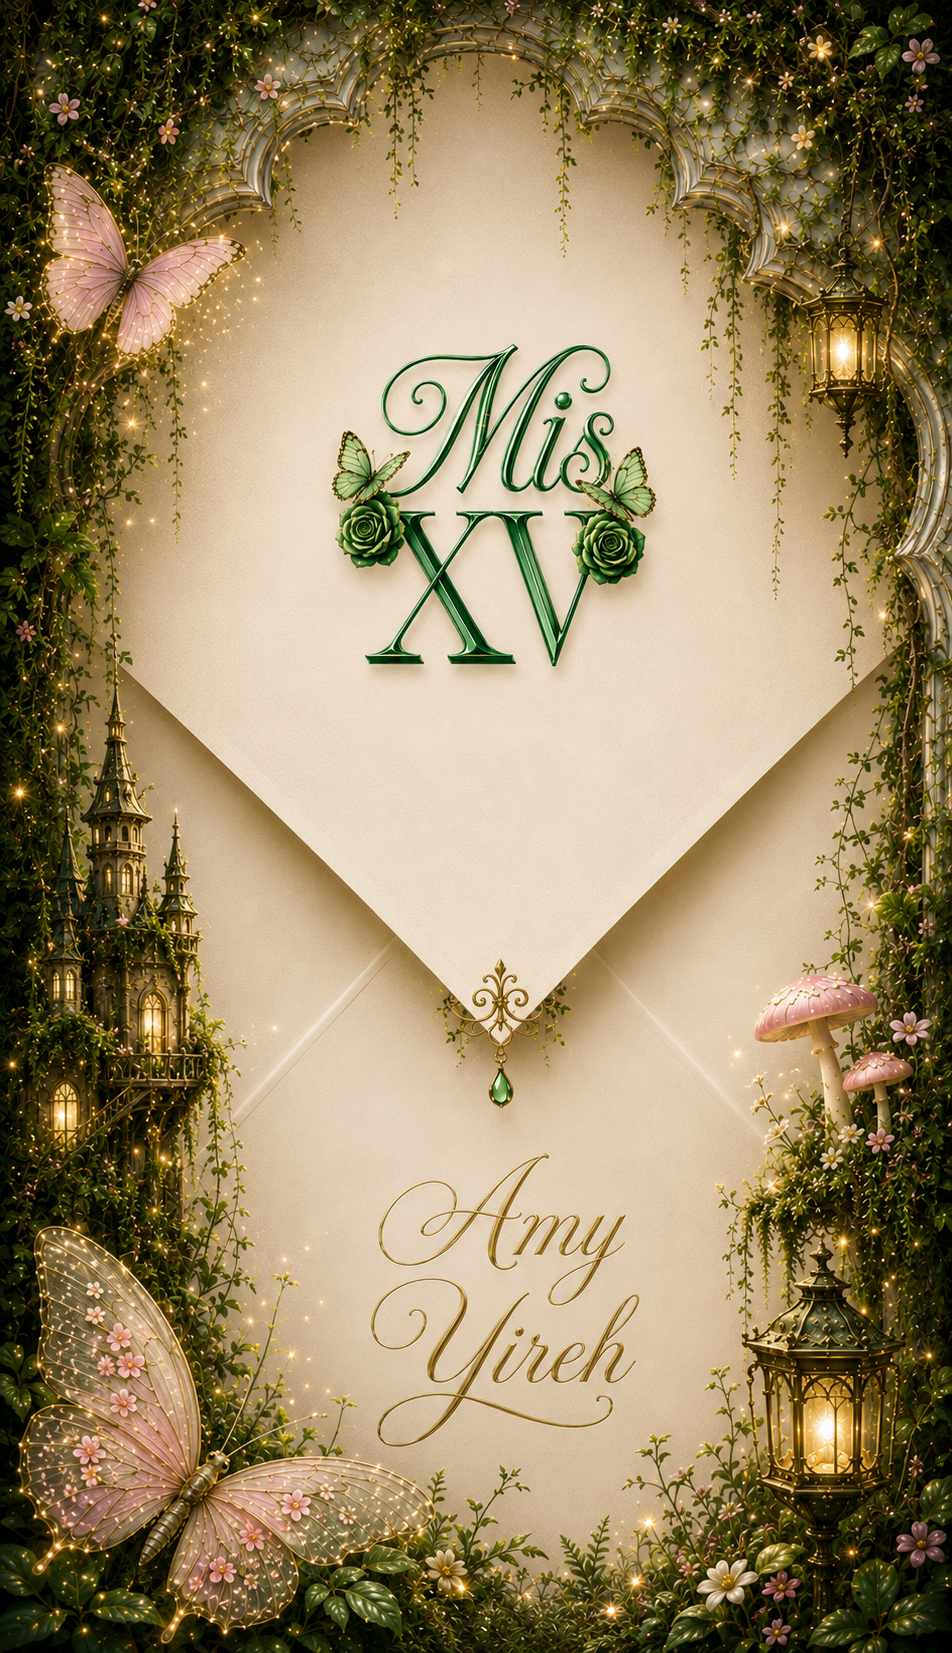
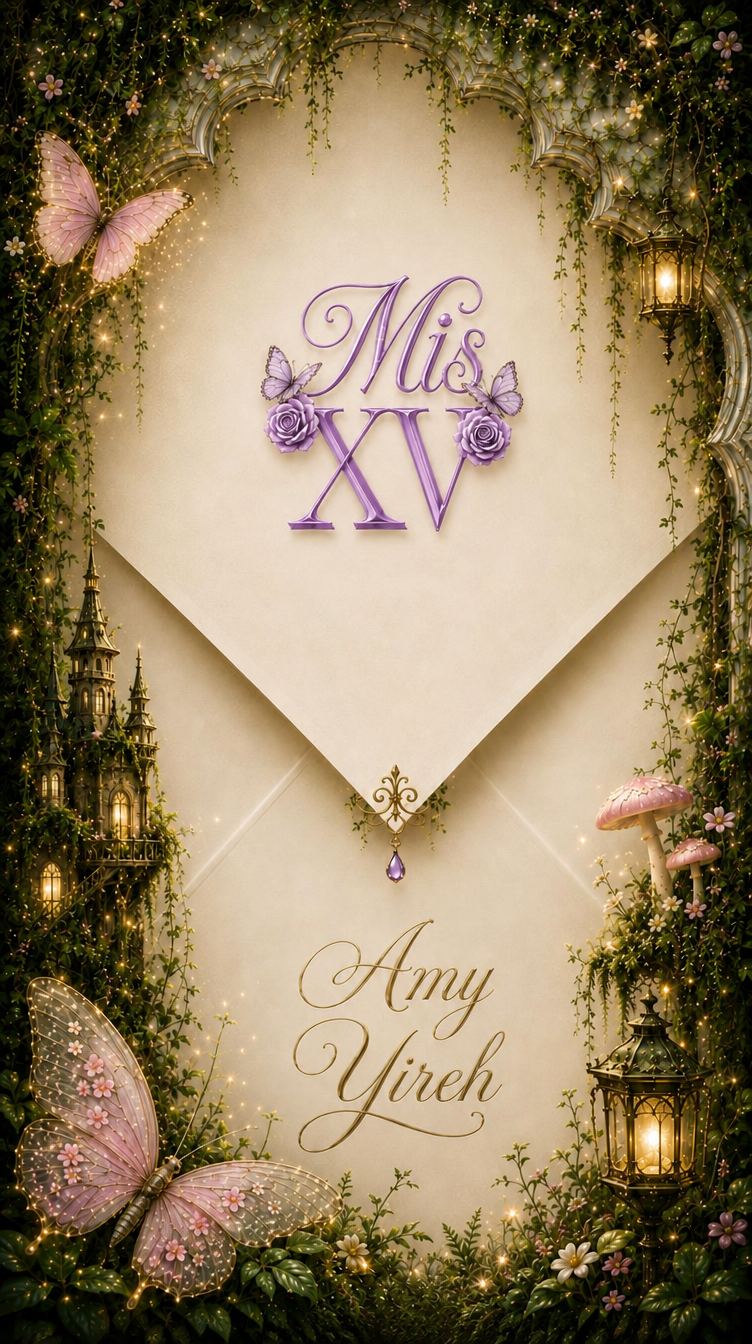
“miercoles_8”

diff --git a/invi_julio/fullarte_bosqueencantado_AmyYireh/invitacion.html b/invi_julio/fullarte_bosqueencantado_AmyYireh/invitacion.html
@@ -67,7 +67,7 @@
         font-family: 'Nova Quinta', cursive; /* Tipografía personalizada */
         font-size: 55px; /* Tamaño del texto */
         font-weight:500;
-        color: #4a6d3f; /* Color del texto */
+        color: #865b92; /* Color del texto */
         text-align: center; /* Centrado */
         margin-top: 740px; /* Separación superior exacta */
        
@@ -87,7 +87,7 @@
         .parrafo {
          font-family: 'Gabriola', serif;
         font-size: 26px; /* Tamaño del texto */
-        color: #513814; /* Color del texto */
+        color: #865b92; /* Color del texto */
         text-align: center; /* Centrado */
         margin-top: 1px; /* Espaciado respecto al nombre */
         line-height: 1.5; /* Altura de línea */
@@ -98,14 +98,14 @@
      .date-container {
             font-family: 'Gabriola', serif;
             text-align: center;
-            color: #4a6d3f;
+            color: #865b92;
             width: 100%;
         }
 
         .day {
             font-size: 2.8em;
             margin-bottom: 0;
-            border-bottom: 2px solid #4a6d3f;
+            border-bottom: 2px solid #865b92;
             display: inline-block;
             padding: 0 30px 2px;
         }
@@ -120,7 +120,7 @@
         .month {
             font-size: 2.8em;
             margin-top: 0;
-            border-top: 2px solid #4a6d3f;
+            border-top: 2px solid #865b92;
             display: inline-block;
             padding: 2px 30px 0;
         }
@@ -295,13 +295,13 @@
         .section-content {
             font-family: 'Gabriola', serif;
             font-size: 24px;
-            color: #513814;
+            color: #865b92;
             margin: 10px 0;
         }
         .section-content-hora {
             font-family: 'Gabriola', serif;
             font-size: 32px;
-            color: #513814;
+            color: #865b92;
             margin: 5px 0;
         }
 
@@ -430,7 +430,7 @@
     .social-content {
         font-family: 'Gabriola', serif;
         font-size: 22px;
-        color: #513814;
+        color: #865b92;
         line-height: 1.4;
         text-align: center;
         margin: 10px 0;
@@ -514,7 +514,7 @@
     .final-content {
         font-family: 'Gabriola', serif;
         font-size: 24px;
-        color: #000000;
+        color: #865b92;
         line-height: 1.4;
         text-align: center;
         margin: 10px 0;
